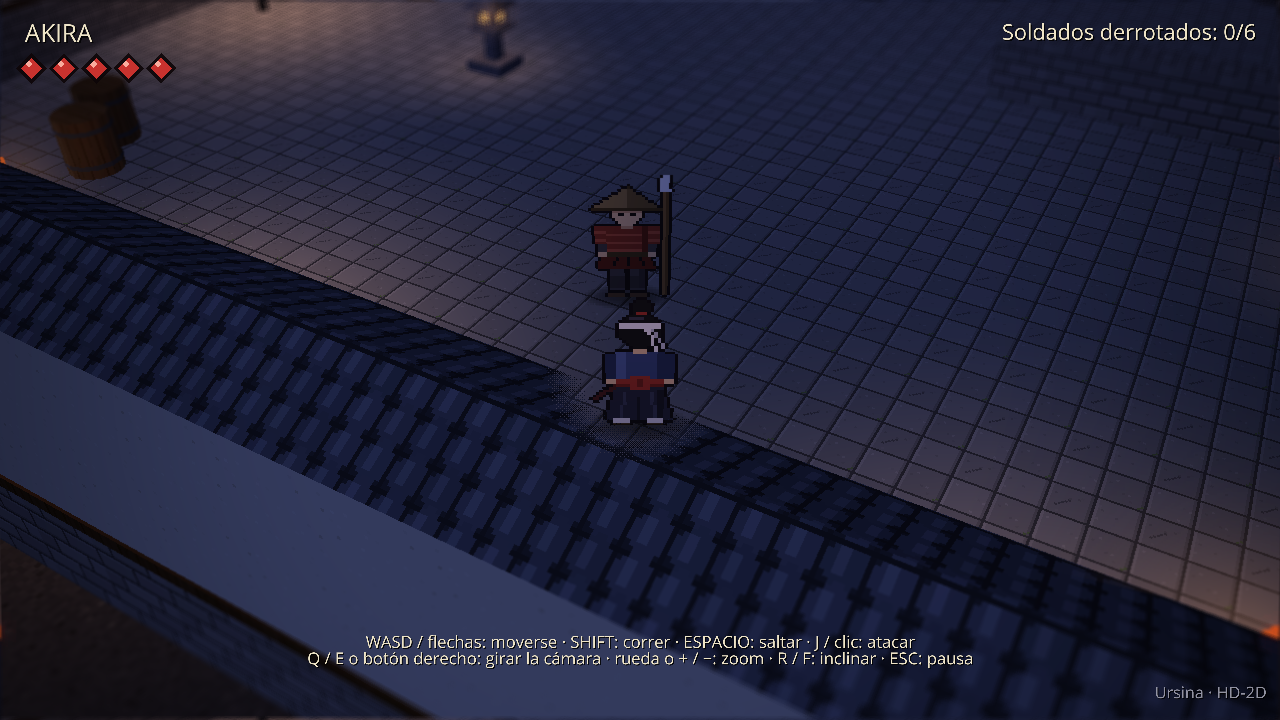
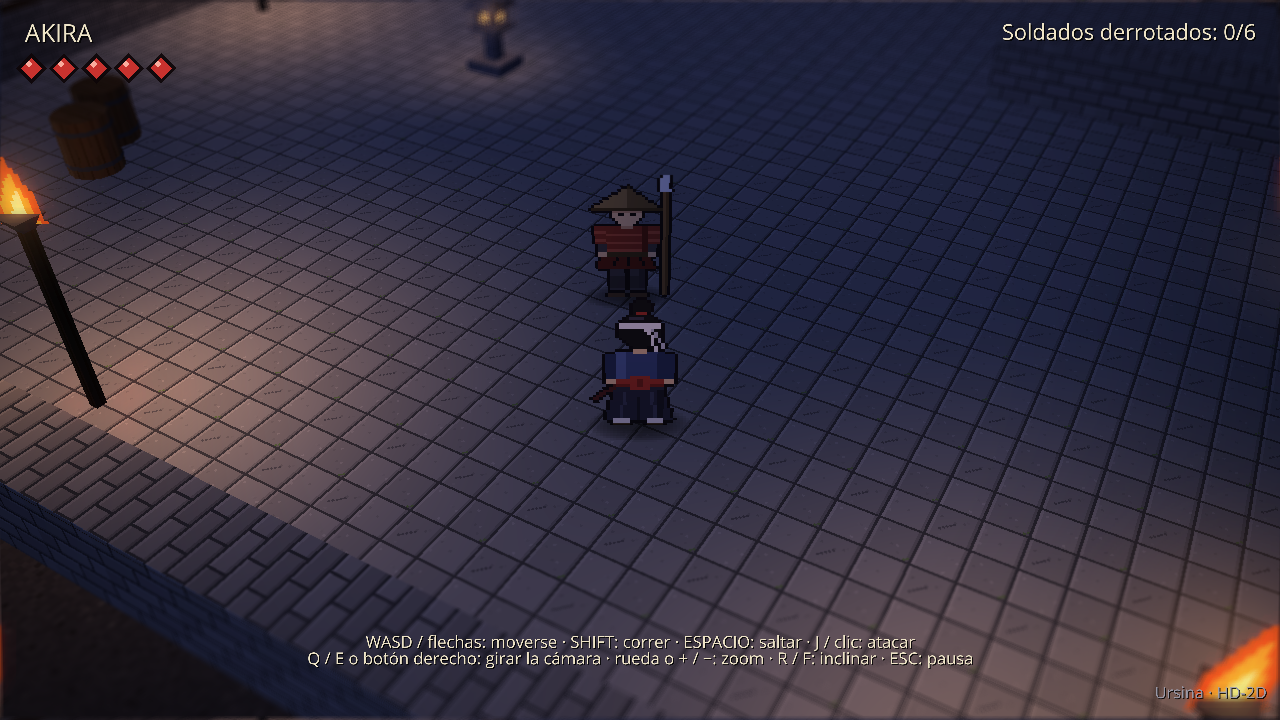
RONIN 3D: avance de las versiones Three.js y Ursina (en curso)
Copia intermedia mientras los agentes terminan de ajustar luces, cámara y
capturas. Se actualizará con la versión final.

Claude-Session: https://claude.ai/code/session_01EfL2Sd18n1j75YoG2dkHWC

diff --git a/ronin3d/threejs/ronin3d_fuente.html b/ronin3d/threejs/ronin3d_fuente.html
@@ -337,8 +337,8 @@ const COLOR = {
 const LUZ = {
   ambiente: 9.0,
   luna: 3.4,
-  antorcha: 17,
-  decaimientoAntorcha: 1.35,
+  antorcha: 9.5,
+  decaimientoAntorcha: 1.0,
   alcanceAntorcha: 9,
   linterna: 2.4,
   alcanceLinterna: 4.5,
@@ -1577,7 +1577,7 @@ function crearPostproceso() {
     compositor.setPixelRatio(pr);
     compositor.setSize(tamano.x, tamano.y);
     compositor.addPass(new RenderPass(escena, camara3d));
-    pasoBloom = new UnrealBloomPass(new THREE.Vector2(tamano.x, tamano.y), 0.6, 0.5, 0.85);
+    pasoBloom = new UnrealBloomPass(new THREE.Vector2(tamano.x, tamano.y), 0.65, 0.45, 1.0);
     compositor.addPass(pasoBloom);
     const shader = { ...SHADER_MAQUETA, uniforms: THREE.UniformsUtils.clone(SHADER_MAQUETA.uniforms) };
     shader.uniforms.resolucion.value = new THREE.Vector2(tamano.x * pr, tamano.y * pr);
@@ -2737,8 +2737,11 @@ function actualizarLogica(dt) {
       estado.ayudaRestante = Math.max(0, estado.ayudaRestante - dt);
     }
   }
-  for (const s of soldados) actualizarSoldado(s, dt);
-  separarPersonajes();
+  // Durante la intro los soldados esperan en su punto A; patrullan desde que empieza el patio
+  if (estado.escena !== 'intro') {
+    for (const s of soldados) actualizarSoldado(s, dt);
+    separarPersonajes();
+  }
   actualizarChispas(dt);
 }
 

diff --git a/ronin3d/ursina/ronin3d_ursina.py b/ronin3d/ursina/ronin3d_ursina.py
@@ -953,9 +953,10 @@ class TramoMuralla:
 
     VELOCIDAD_CORTE = 22.0
 
-    def __init__(self, x0, x1, z0, z1, alto):
+    def __init__(self, x0, x1, z0, z1, alto, exterior):
         self.x0, self.x1, self.z0, self.z1 = x0, x1, z0, z1
         self.alto = alto
+        self.exterior = exterior        # (eje, signo, valor): la cámara está fuera si signo·(p − valor) > 0
         self.materiales = {nombre: ConstructorMalla() for nombre in ('piedra', 'yeso', 'madera', 'tejas', 'porton')}
         self.entidades = []
         self.altura_corte = 1000.0
@@ -971,9 +972,13 @@ class TramoMuralla:
             self.entidades.append(entidad)
 
     def tapa(self, camara, objetivo):
-        """¿La línea de la cámara a los pies de Akira pasa por el tramo, por debajo de su techo?"""
+        """¿La cámara está fuera de este lado de la muralla y la línea hasta los pies de
+        Akira pasa por el tramo por debajo de su techo?"""
         cx, cy, cz = camara
         ax, ay, az = objetivo
+        eje, signo, valor = self.exterior
+        if signo * ((cx if eje == 'x' else cz) - valor) <= 0:
+            return False
         t0, t1 = 0.0, 1.0
         for p, d, bajo, alto in ((cx, ax - cx, self.x0, self.x1), (cz, az - cz, self.z0, self.z1)):
             if abs(d) < 1e-9:
@@ -986,7 +991,7 @@ class TramoMuralla:
             t0, t1 = max(t0, ta), min(t1, tb)
             if t0 > t1:
                 return False
-        return cy + (ay - cy) * t0 < self.alto
+        return min(cy + (ay - cy) * t0, cy + (ay - cy) * t1) < self.alto
 
     def actualizar(self, dt, cortar):
         """Baja o sube la altura de corte poco a poco (sin saltos bruscos)."""
@@ -1021,7 +1026,12 @@ def construir_escenario(mundo):
     # Muros: base de piedra de 1,2 m, yeso blanco encima, bandas de madera y tejadillo
     for (cx, cy, cz), (sx, sy, sz) in MUROS:
         x, _, z = convertir(cx, 0, cz)
-        tramo = TramoMuralla(x - sx / 2 - 0.3, x + sx / 2 + 0.3, z - sz / 2 - 0.3, z + sz / 2 + 0.3, sy + 0.4)
+        if sx > sz:     # muro norte o sur: fuera según Z
+            exterior = ('z', 1 if z > 0 else -1, z - sz / 2 if z > 0 else z + sz / 2)
+        else:           # muro oeste o este: fuera según X
+            exterior = ('x', 1 if x > 0 else -1, x - sx / 2 if x > 0 else x + sx / 2)
+        tramo = TramoMuralla(x - sx / 2 - 0.3, x + sx / 2 + 0.3, z - sz / 2 - 0.3, z + sz / 2 + 0.3, sy + 0.4,
+                             exterior)
         t = tramo.materiales
         t['piedra'].caja((x, ALTURA_PIEDRA / 2, z), (sx, ALTURA_PIEDRA, sz))
         t['yeso'].caja((x, ALTURA_PIEDRA + (sy - ALTURA_PIEDRA) / 2, z), (sx, sy - ALTURA_PIEDRA, sz))
@@ -1035,7 +1045,7 @@ def construir_escenario(mundo):
     # Portón (macizo), postes, dintel y tejado
     (px, py, pz), (psx, psy, psz) = PORTON
     x, _, z = convertir(px, 0, pz)
-    tramo = TramoMuralla(x - 1.3, x + 1.3, z - 4.8, z + 4.8, 6.6)
+    tramo = TramoMuralla(x - 1.3, x + 1.3, z - 4.8, z + 4.8, 6.6, ('x', 1, x - psx / 2))
     t = tramo.materiales
     x0, x1 = x - psx / 2, x + psx / 2
     z0, z1 = z - psz / 2, z + psz / 2
@@ -2588,7 +2598,12 @@ class Probador:
             else:
                 self.mantener(set())
                 if akira.t_enfriamiento <= 0 and not akira.atacando:
+                    con_aviso = any(s.estado == 'aviso' and math.hypot(s.x - akira.x, s.z - akira.z) < 5
+                                    for s in self.juego.soldados)
                     self.tocar('j')
+                    if con_aviso and al_golpear:
+                        yield 0                     # ese cuadro ya muestra el tajo y el «!»
+                        yield from al_golpear(soldado, aviso=True)
             yield 0
             t += PASO_PRUEBA
             if soldado.golpes_recibidos > golpes_previos:
@@ -2753,7 +2768,7 @@ class Probador:
         self.mantener({'+'})
         yield (CAMARA_DIST_MAX - CAMARA_DISTANCIA) / CAMARA_VEL_ZOOM
         self.mantener(set())
-        self.comprobar(abs(camara.inclinacion - CAMARA_INCLINACION) < 0.5 and
+        self.comprobar(abs(camara.inclinacion - CAMARA_INCLINACION) < 1.6 and
                        abs(camara.distancia_deseada - CAMARA_DISTANCIA) < 0.2,
                        f'R y + devuelven la cámara a {camara.inclinacion:.0f}° y {camara.distancia_deseada:.1f} m')
         yield from self.girar_camara_a(-60)
@@ -2761,11 +2776,13 @@ class Probador:
         danados = []
         capturado = [False]
 
-        def al_golpear(soldado):
-            danados.append(soldado.indice)
-            if not capturado[0]:
+        def al_golpear(soldado, aviso=False):
+            if not aviso:
+                danados.append(soldado.indice)
+            if not capturado[0] and (aviso or len(danados) >= 3):
                 capturado[0] = True
-                yield 0
+                if not aviso:
+                    yield 0
                 self.capturar('ursina_combate.png')
 
         yield from self.ir_a(8, -1.5)
